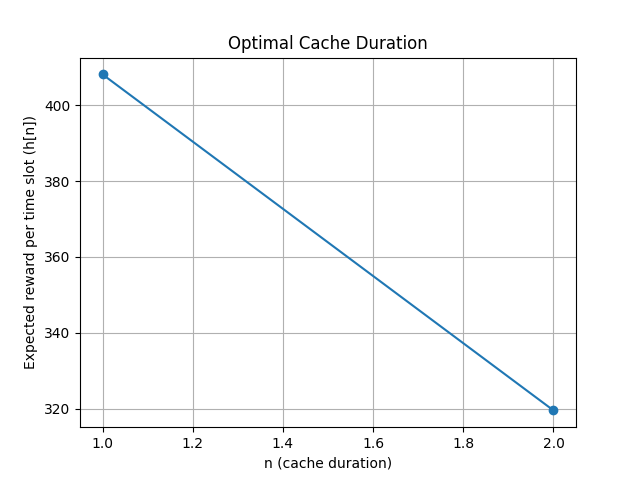
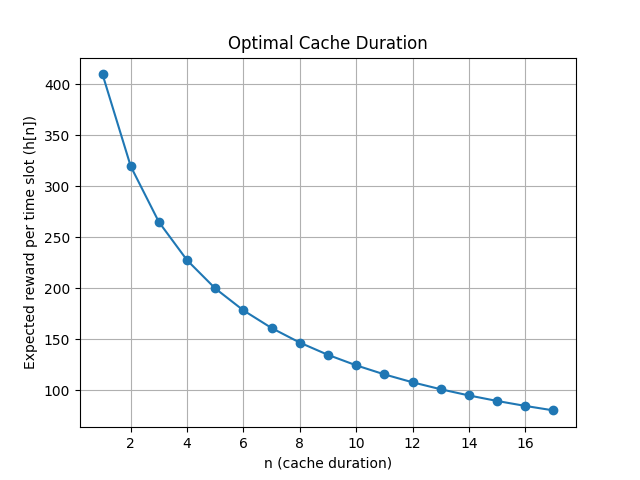
full graph

diff --git a/optimal_caching.py b/optimal_caching.py
@@ -6,16 +6,15 @@ def fixed_n(n=5):
 def get_n(utility_vec, p, f_0, C, plot=True):
     n = 2
     b = f_0 - C['C1']
-    G = [utility_vec[1]]
-    h = [(b + p * utility_vec[1] - C['C1'])/(1 + (1/p))]
+    G = [utility_vec[1]]   #starting from age 1 since utility_vec[0] = f_0
+    h = [(b + p * utility_vec[1] - C['C2'])/(1 + (1/p))]
     n_opt = 0
     
     while(n < len(utility_vec)):
         G.append(G[-1] + utility_vec[n])
         h.append( (b + p * G[-1] - n * C['C2'])/(n + (1/p)) )
-        if h[-1] < h[-2]:
+        if h[-1] < h[-2] and n_opt == 0:
             n_opt = n-1
-            break
         n += 1
     
     # print(h)
